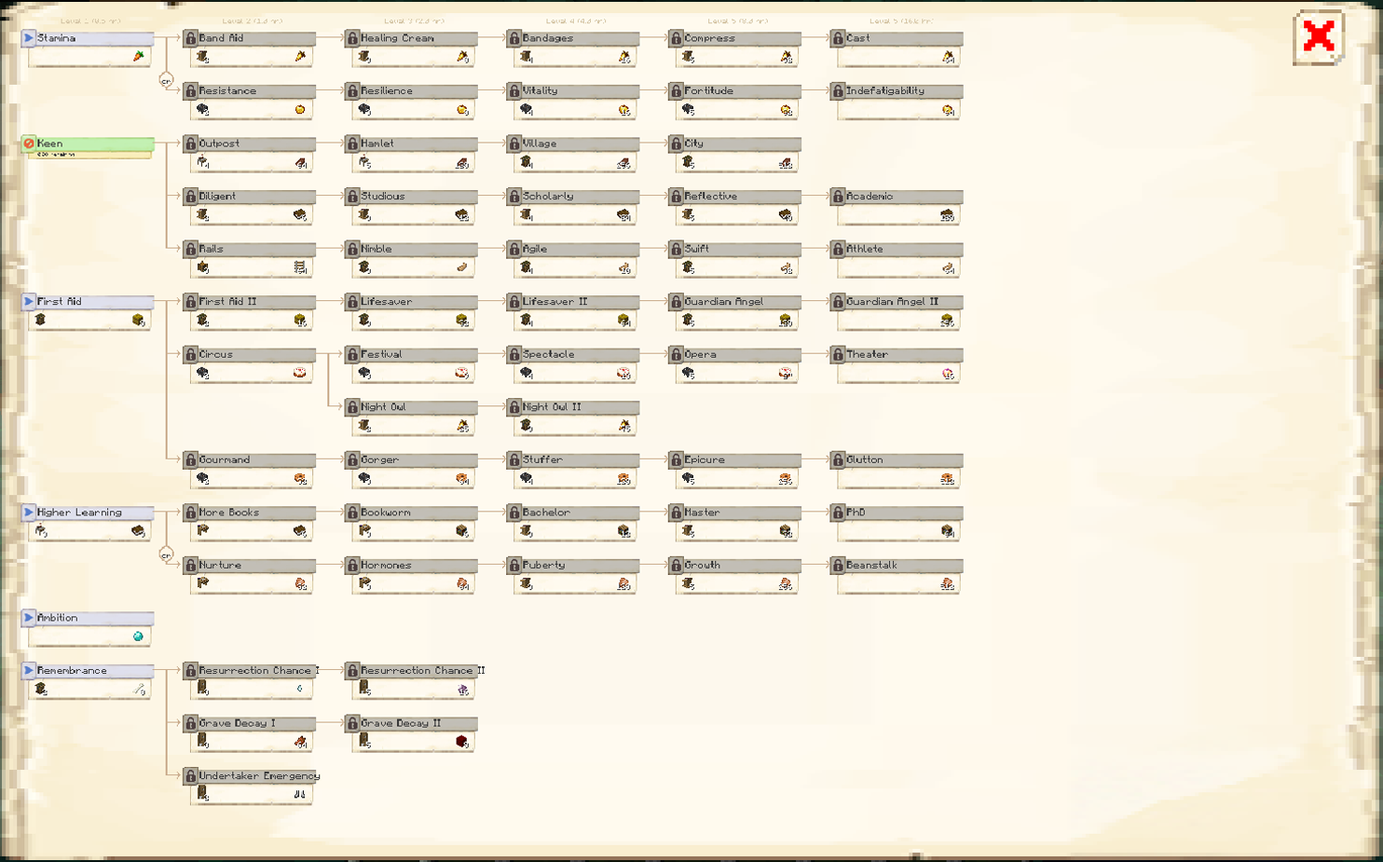
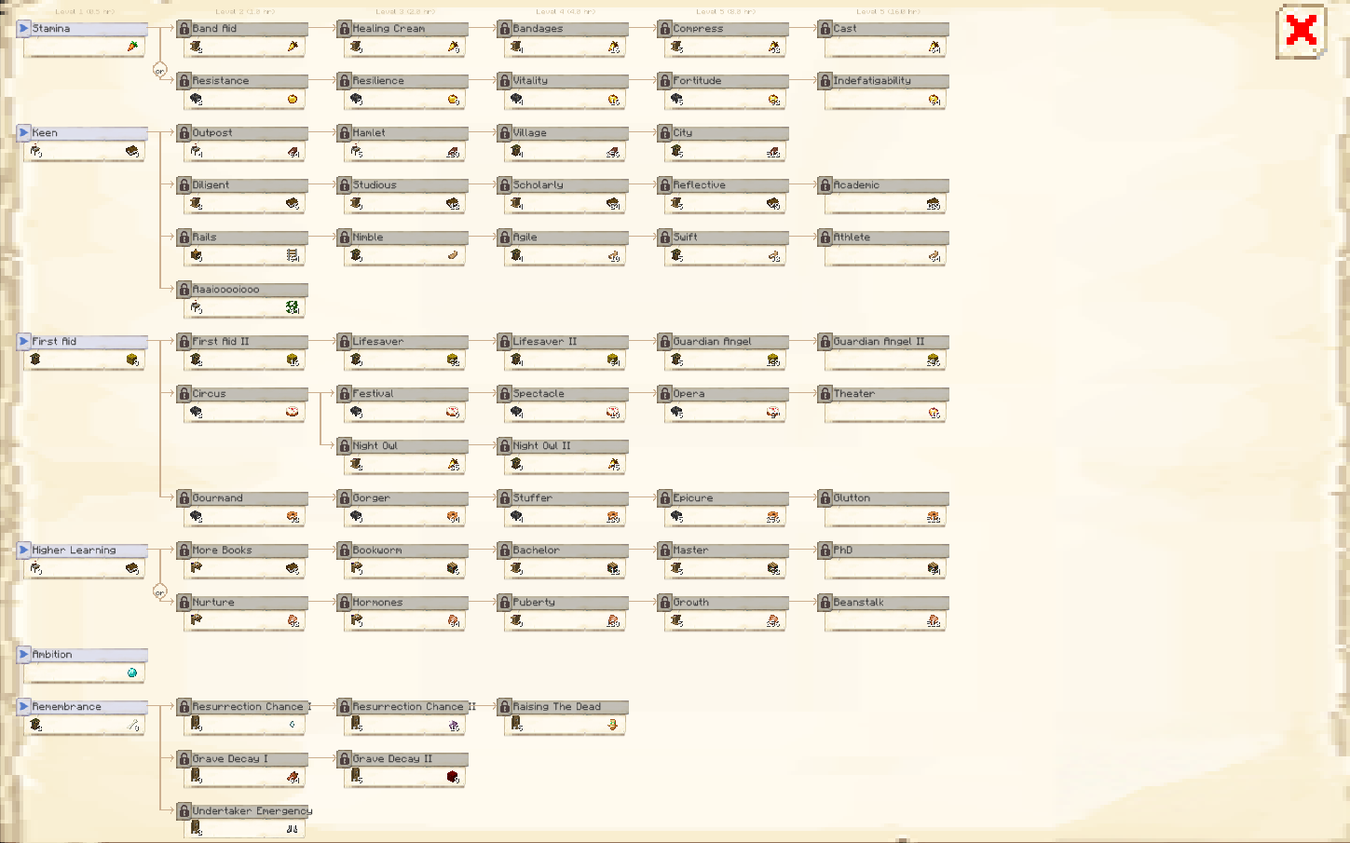
Research update (#817)
* Research update

* Link apiary

* Update dodge

* Fixed Heavy Machinery

Changed region(s): [[0.0, 0.0, 1.0, 1.0]]

diff --git a/pages/src/source/systems/research.md b/pages/src/source/systems/research.md
@@ -35,10 +35,111 @@ You can only have one column 6 research in each of the Combat, Civilian, and Tec
 **Note:** Researches below are *not* cumulative unless stated otherwise.
 
 - Branches
-  - [Combat](#combat)
   - [Civilian](#civilian)
+  - [Combat](#combat)
   - [Technology](#technology)
   - [Unlockables](#unlockables)
+
+### Civilian
+<br>
+<img src="../../assets/images/gui/university/civilian.png" class="img-fluid mx-auto" alt="University Civilian GUI Page">
+<br>
+
+#### First Column
+
+| Name | Requirements | Effects |
+| ---- | ------------ | ------- |
+| Stamina | 1 carrot | Unlocks the [Hospital](../../source/buildings/hospital) |
+| Keen | [House](../../source/buildings/house) at least level 3; 3 books | Unlocks the [Library](../../source/buildings/library) |
+| First Aid | [Town Hall](../../source/buildings/townhall) at least level 1; 8 hay bales | Increases colonists' health by 1 heart |
+| Higher Learning | House at least level 3; 3 books | Unlocks the [School](../../source/buildings/school) |
+| Ambition | 1 Diamond | Unlocks the [Mystical Site](../../source/buildings/mysticalsite) |
+| Remembrance | [Town Hall](../../source/buildings/townhall) at least level 2; 8 bones | Unlocks the [Graveyard](../../source/buildings/graveyard) |
+
+#### Second Column
+
+| Name | Prerequisites | Requirements | Effects |
+| ---- | ------------- | ------------ | ------- |
+| Band Aid | Stamina | Library at least level 2; 1 golden carrot | Every tick that a colonist is healing, they heal by 10% more |
+| Resistance | Stamina | [Restaurant](../../source/buildings/restaurant) at least level 2; 1 golden apple | Colonists can heal with only 95% saturation |
+| Outpost | Keen | House at least level 4; 64 steak | Lets the colony have up to 50 colonists |
+| Diligent | Keen | Library at least level 2; 6 books | Increases the rate colonists level up by 5% |
+| Rails | Keen | [Courier's Hut](../../source/buildings/courier) at least level 3; 64 rails | Lets colonists use rails to get around. You don't need to provide them with minecarts, as they automagically create their own for each trip |
+| Aaaioooiooo | Keen | House at least level 3; 64 vines | Citizens can climb vines |
+| First Aid II | First Aid | Town Hall at least level 2; 16 hay bales | Increases colonists' health by 2 hearts |
+| Circus | First Aid | Restaurant at least level 2; 1 cake | Increases colonists' happiness by 5% |
+| Gourmand | First Aid | Restaurant at least level 2; 32 cookies | Food is 10% more effective at restoring colonists' saturation |
+| More Books | Higher Learning | School at least level 1; 6 books | Increases the effectiveness of [Teachers](../../source/workers/teacher) by 5% |
+| Nurture | Higher Learning | School at least level 1; 32 cooked chicken | Decreases the time it takes children to grow up by 5% |
+| Resurrection Chance I | Remembrance | Graveyard at least level 3; 1 ghast tear | Increases [Undertakers'](../../source/workers/undertaker) chances of resurrecting citizens by 1% |
+| Grave Decay I | Remembrance | Graveyard at least level 3; 64 rotten flesh | Graves take 2 more minutes before decaying |
+| Undertaker Emergency | Remembrance | Graveyard at least level 2; 1 set of iron boots | Undertakers run toward graves instead of walking |
+
+#### Third Column
+
+| Name | Prerequisites | Requirements | Effects |
+| ---- | ------------- | ------------ | ------- |
+| Healing Cream | Band Aid | Library at least level 3; 8 golden carrots | Every tick that a colonist is healing, they heal by 25% more |
+| Resilience | Resistance | Restaurant at least level 3; 8 golden apples | Colonists can heal with only 90% saturation |
+| Hamlet | Outpost | House at least level 5; 128 steak | Lets the colony have up to 75 colonists |
+| Studious | Diligent | Library at least level 3; 12 books | Increases the rate colonists level up by 10% |
+| Nimble | Rails | Town Hall at least level 3; 1 rabbit foot | Increases colonists' speed by 5% |
+| Lifesaver | First Aid II | Town Hall at least level 3; 32 hay bales | Increases colonists' health by 3 hearts |
+| Festival | Circus | Restaurant at least level 3; 9 cakes | Increases colonists' happiness by 10% |
+| Nightowl | Circus | Library at least level 2; 25 golden carrots | Colonists' bedtime is pushed back by 1 in-game hour |
+| Gorger | Gourmand | Restaurant at least level 3; 64 cookies | Food is 25% more effective at restoring colonists' saturation |
+| Bookworm | More Books | School at least level 3; 6 bookshelves | Increases the effectiveness of Teachers by 10% |
+| Hormones | Nurture | School at least level 3; 64 cooked chicken | Decreases the time it takes children to grow up by 10% |
+| Resurrection Chance II | Resurrection Chance I | Graveyard level 5; 16 chorus fruit | Increases Undertakers' chances of resurrecting citizens by 2% |
+| Grave Decay II | Grave Decay I | Graveyard level 5; 8 nether wart blocks | Graves take 3 more minutes before decaying |
+
+#### Fourth Column
+
+| Name | Prerequisites | Requirements | Effects |
+| ---- | ------------- | ------------ | ------- |
+| Bandages | Healing Cream | Library at least level 4; 16 golden carrots | Every tick that a colonist is healing, they heal by 50% more |
+| Vitality | Resilience | Restaurant at least level 4; 16 golden apples | Colonists can heal with only 85% saturation |
+| Village | Hamlet | Town Hall at least level 4; 256 steak | Lets the colony have up to 175 colonists |
+| Scholarly | Studious | Library at least level 4; 24 books | Increases the rate colonists level up by 25% |
+| Agile | Nimble | Town Hall at least level 4; 10 rabbit feet | Increases colonists' speed by 10% |
+| Lifesaver II | Lifesaver | Town Hall at least level 4; 64 hay bales | Increases colonists' health by 4 hearts |
+| Spectacle | Festival | Restaurant at least level 4; 18 cakes | Increases colonists' happiness by 15% |
+| Nightowl II | Festival | Town Hall at least level 3; 75 golden carrots | Colonists' bedtime is pushed back by 2 in-game hours (cumulative with Nightowl) |
+| Stuffer | Gorger | Restaurant at least level 4; 128 cookies | Food is 50% more effective at restoring colonists' saturation |
+| Bachelor | Bookworm | Library at least level 3; 12 bookshelves | Increases the effectiveness of Teachers by 25% |
+| Puberty | Hormones | Library at least level 3; 128 cooked chicken | Decreases the time it takes children to grow up by 25% |
+| Raising The Dead | Resurrection Chance II | Graveyard level 5; 1 Totem of Undying | Undertaker can use Totems of Undying to increase chance of resurrection |
+
+#### Fifth Column
+
+| Name | Prerequisites | Requirements | Effects |
+| ---- | ------------- | ------------ | ------- |
+| Compress | Bandages | Library level 5; 32 golden carrots | Every tick that a colonist is healing, they heal by 100% more |
+| Fortitude | Vitality | Restaurant level 5; 32 golden apples | Colonists can heal with only 80% saturation |
+| City | Village | Town Hall level 5; 512 steak | Lets you have over 175 colonists, up to the max in the [config file](../../source/misc/configfile) |
+| Reflective | Scholarly | Library level 5; 48 books | Increases the rate colonists level up by 50% |
+| Swift | Agile | Town Hall level 5; 32 rabbit feet | Increases colonists' speed by 15% |
+| Guardian Angel | Lifesaver II | Town Hall level 5; 128 hay bales | Increases colonists' health by 5 hearts |
+| Opera | Spectacle | Restaurant level 5; 27 cakes | Increases colonists' happiness by 20% |
+| Epicure | Stuffer | Restaurant level 5; 256 cookies | Food is 100% more effective at restoring colonists' saturation |
+| Master | Bachelor | Library level 5; 32 bookshelves | Increases the effectiveness of Teachers by 50% |
+| Growth | Puberty | Library level 5; 256 cooked chicken | Decreases the time it takes children to grow up by 50% |
+
+#### Sixth Column 
+
+You can only have one sixth column research unlocked at a time!
+
+| Name | Prerequisites | Requirements | Effects |
+| ---- | ------------- | ------------ | ------- |
+| Cast | Compress | 64 golden carrots | Every tick that a colonist is healing, they heal by 200% more |
+| Indefatigability | Fortitude | 64 golden apples | Colonists can heal with only 50% saturation |
+| Academic | Reflective | 128 books | Increases the rate colonists level up by 100% |
+| Athlete | Swift | 64 rabbit feet | Increases colonists' speed by 25% |
+| Guardian Angel II | Guardian Angel | 256 hay bales | Increases colonists' health by 10 hearts |
+| Theater | Opera | 16 enchanted golden apples | Increases colonists' happiness by 50% |
+| Glutton | Epicure | 512 cookies | Food is 200% more effective at restoring colonists' saturation |
+| PhD | Master | 64 bookshelves | Increases the effectiveness of Teachers by 100% |
+| Beanstalk | Growth | 512 cooked chicken | Decreases the time it takes children to grow up by 100% |
 
 ### Combat
 <br>
@@ -64,7 +165,7 @@ You can only have one column 6 research in each of the Combat, Civilian, and Tec
 | Improved Swords | Tactic Training | Barracks at least level 3; 6 blocks of iron | Unlocks the [Combat Academy](../../source/buildings/combatacademy) |
 | Improved Bows | Tactic Training | Barracks at least level 3; 6 blocks of iron | Unlocks the [Archery](../../source/buildings/archery) |
 | Parry | Avoidance | [Smeltery](../../source/buildings/smeltery) at least level 1; 16 iron ingots | Increases Knights' armor by 5% |
-| Dodge | Avoidance | Smeltery at least level 1; 16 iron ingots | Increases Archers' armor by 5% |
+| Dodge | Avoidance | Smeltery at least level 1; 16 leather | Increases Archers' armor by 5% |
 | Boiled Leather | Improved Leather | Town Hall at least level 2; 64 leather | Increases Guards' armor's durability by 20% |
 | Regeneration | Improved Leather | Guard Tower at least level 2; 1 emerald | Lets Guards run away when they have low health (this can be turned off on the 2nd page of their tower's GUI) |
 | Consume Arrows | Taunt | Guard Tower at least level 2; 64 arrows | Archers will request arrows for their bows, and using them will give the Archers a damage boost of 1 heart. If they run out of arrows, they can still shoot, but without the damage boost |
@@ -83,6 +184,7 @@ You can only have one column 6 research in each of the Combat, Civilian, and Tec
 | Feint | Regeneration | Guard Tower at least level 4; 8 emeralds | When Guards are fleeing, the damage they take is reduced by 20% |
 | Avoid | Regeneration | Guard Tower at least level 4; 8 emeralds | Increases the fleeing speed of Guards by 10% |
 | Arrow Piercing | Consume Arrows | Archery at least level 1; 64 arrows, 64 redstone dust | Archers' arrows can pierce through multiple enemies and cannot hit Knights or other Archers |
+| Panoramix | Consume Arrows | Barracks at least level 3; 64 mistletow | Druids request water bottles and mistletoe, which increases the strength and duration of their potions |
 
 #### Fourth Column
 
@@ -130,105 +232,6 @@ You can only have one sixth column research unlocked at a time!
 | Full Retreat | Retreat | 64 emeralds | When Guards are fleeing, the damage they take is reduced by 100% |
 | Hotfoot | Flee | 64 emeralds | Increases the fleeing speed of Guards by 50% |
 
-### Civilian
-<br>
-<img src="../../assets/images/gui/university/civilian.png" class="img-fluid mx-auto" alt="University Civilian GUI Page">
-<br>
-
-#### First Column
-
-| Name | Requirements | Effects |
-| ---- | ------------ | ------- |
-| Stamina | 1 carrot | Unlocks the [Hospital](../../source/buildings/hospital) |
-| Keen | [House](../../source/buildings/house) at least level 3; 3 books | Unlocks the [Library](../../source/buildings/library) |
-| First Aid | [Town Hall](../../source/buildings/townhall) at least level 1; 8 hay bales | Increases colonists' health by 1 heart |
-| Higher Learning | House at least level 3; 3 books | Unlocks the [School](../../source/buildings/school) |
-| Ambition | 1 Diamond | Unlocks the [Mystical Site](../../source/buildings/mysticalsite) |
-| Remembrance | [Town Hall](../../source/buildings/townhall) at least level 2; 8 bones | Unlocks the [Graveyard](../../source/buildings/graveyard) |
-
-#### Second Column
-
-| Name | Prerequisites | Requirements | Effects |
-| ---- | ------------- | ------------ | ------- |
-| Band Aid | Stamina | Library at least level 2; 1 golden carrot | Every tick that a colonist is healing, they heal by 10% more |
-| Resistance | Stamina | [Restaurant](../../source/buildings/restaurant) at least level 2; 1 golden apple | Colonists can heal with only 95% saturation |
-| Outpost | Keen | House at least level 4; 64 steak | Lets the colony have up to 50 colonists |
-| Diligent | Keen | Library at least level 2; 6 books | Increases the rate colonists level up by 5% |
-| Rails | Keen | [Courier's Hut](../../source/buildings/courier) at least level 3; 64 rails | Lets colonists use rails to get around. You don't need to provide them with minecarts, as they automagically create their own for each trip |
-| First Aid II | First Aid | Town Hall at least level 2; 16 hay bales | Increases colonists' health by 2 hearts |
-| Circus | First Aid | Restaurant at least level 2; 1 cake | Increases colonists' happiness by 5% |
-| Gourmand | First Aid | Restaurant at least level 2; 32 cookies | Food is 10% more effective at restoring colonists' saturation |
-| More Books | Higher Learning | School at least level 1; 6 books | Increases the effectiveness of [Teachers](../../source/workers/teacher) by 5% |
-| Nurture | Higher Learning | School at least level 1; 32 cooked chicken | Decreases the time it takes children to grow up by 5% |
-| Resurrection Chance I | Remembrance | Graveyard at least level 3; 1 ghast tear | Increases [Undertakers'](../../source/workers/undertaker) chances of resurrecting citizens by 1% |
-| Grave Decay I | Remembrance | Graveyard at least level 3; 64 rotten flesh | Graves take 2 more minutes before decaying |
-| Undertaker Emergency | Remembrance | Graveyard at least level 2; 1 set of iron boots | Undertakers run toward graves instead of walking |
-
-#### Third Column
-
-| Name | Prerequisites | Requirements | Effects |
-| ---- | ------------- | ------------ | ------- |
-| Healing Cream | Band Aid | Library at least level 3; 8 golden carrots | Every tick that a colonist is healing, they heal by 25% more |
-| Resilience | Resistance | Restaurant at least level 3; 8 golden apples | Colonists can heal with only 90% saturation |
-| Hamlet | Outpost | House at least level 5; 128 steak | Lets the colony have up to 75 colonists |
-| Studious | Diligent | Library at least level 3; 12 books | Increases the rate colonists level up by 10% |
-| Nimble | Rails | Town Hall at least level 3; 1 rabbit foot | Increases colonists' speed by 5% |
-| Lifesaver | First Aid II | Town Hall at least level 3; 32 hay bales | Increases colonists' health by 3 hearts |
-| Festival | Circus | Restaurant at least level 3; 9 cakes | Increases colonists' happiness by 10% |
-| Nightowl | Circus | Library at least level 2; 25 golden carrots | Colonists' bedtime is pushed back by 1 in-game hour |
-| Gorger | Gourmand | Restaurant at least level 3; 64 cookies | Food is 25% more effective at restoring colonists' saturation |
-| Bookworm | More Books | School at least level 3; 6 bookshelves | Increases the effectiveness of Teachers by 10% |
-| Hormones | Nurture | School at least level 3; 64 cooked chicken | Decreases the time it takes children to grow up by 10% |
-| Resurrection Chance II | Resurrection Chance I | Graveyard level 5; 16 chorus fruit | Increases Undertakers' chances of resurrecting citizens by 2% |
-| Grave Decay II | Grave Decay I | Graveyard level 5; 8 nether wart blocks | Graves take 3 more minutes before decaying |
-
-#### Fourth Column
-
-| Name | Prerequisites | Requirements | Effects |
-| ---- | ------------- | ------------ | ------- |
-| Bandages | Healing Cream | Library at least level 4; 16 golden carrots | Every tick that a colonist is healing, they heal by 50% more |
-| Vitality | Resilience | Restaurant at least level 4; 16 golden apples | Colonists can heal with only 85% saturation |
-| Village | Hamlet | Town Hall at least level 4; 256 steak | Lets the colony have up to 175 colonists |
-| Scholarly | Studious | Library at least level 4; 24 books | Increases the rate colonists level up by 25% |
-| Agile | Nimble | Town Hall at least level 4; 10 rabbit feet | Increases colonists' speed by 10% |
-| Lifesaver II | Lifesaver | Town Hall at least level 4; 64 hay bales | Increases colonists' health by 4 hearts |
-| Spectacle | Festival | Restaurant at least level 4; 18 cakes | Increases colonists' happiness by 15% |
-| Nightowl II | Festival | Town Hall at least level 3; 75 golden carrots | Colonists' bedtime is pushed back by 2 in-game hours (cumulative with Nightowl) |
-| Stuffer | Gorger | Restaurant at least level 4; 128 cookies | Food is 50% more effective at restoring colonists' saturation |
-| Bachelor | Bookworm | Library at least level 3; 12 bookshelves | Increases the effectiveness of Teachers by 25% |
-| Puberty | Hormones | Library at least level 3; 128 cooked chicken | Decreases the time it takes children to grow up by 25% |
-
-#### Fifth Column
-
-| Name | Prerequisites | Requirements | Effects |
-| ---- | ------------- | ------------ | ------- |
-| Compress | Bandages | Library level 5; 32 golden carrots | Every tick that a colonist is healing, they heal by 100% more |
-| Fortitude | Vitality | Restaurant level 5; 32 golden apples | Colonists can heal with only 80% saturation |
-| City | Village | Town Hall level 5; 512 steak | Lets you have over 175 colonists, up to the max in the [config file](../../source/misc/configfile) |
-| Reflective | Scholarly | Library level 5; 48 books | Increases the rate colonists level up by 50% |
-| Swift | Agile | Town Hall level 5; 32 rabbit feet | Increases colonists' speed by 15% |
-| Guardian Angel | Lifesaver II | Town Hall level 5; 128 hay bales | Increases colonists' health by 5 hearts |
-| Opera | Spectacle | Restaurant level 5; 27 cakes | Increases colonists' happiness by 20% |
-| Epicure | Stuffer | Restaurant level 5; 256 cookies | Food is 100% more effective at restoring colonists' saturation |
-| Master | Bachelor | Library level 5; 32 bookshelves | Increases the effectiveness of Teachers by 50% |
-| Growth | Puberty | Library level 5; 256 cooked chicken | Decreases the time it takes children to grow up by 50% |
-
-#### Sixth Column 
-
-You can only have one sixth column research unlocked at a time!
-
-| Name | Prerequisites | Requirements | Effects |
-| ---- | ------------- | ------------ | ------- |
-| Cast | Compress | 64 golden carrots | Every tick that a colonist is healing, they heal by 200% more |
-| Indefatigability | Fortitude | 64 golden apples | Colonists can heal with only 50% saturation |
-| Academic | Reflective | 128 books | Increases the rate colonists level up by 100% |
-| Athlete | Swift | 64 rabbit feet | Increases colonists' speed by 25% |
-| Guardian Angel II | Guardian Angel | 256 hay bales | Increases colonists' health by 10 hearts |
-| Theater | Opera | 16 enchanted golden apples | Increases colonists' happiness by 50% |
-| Glutton | Epicure | 512 cookies | Food is 200% more effective at restoring colonists' saturation |
-| PhD | Master | 64 bookshelves | Increases the effectiveness of Teachers by 100% |
-| Beanstalk | Growth | 512 cooked chicken | Decreases the time it takes children to grow up by 100% |
-
 ### Technology
 <br>
 <img src="../../assets/images/gui/university/technology.png" class="img-fluid mx-auto" alt="University Technology GUI Page">
@@ -239,11 +242,12 @@ You can only have one sixth column research unlocked at a time!
 | Name | Requirements | Effects |
 | ---- | ------------ | ------- |
 | Biodegradable | [Farm](../../source/buildings/farm&field) at least level 3; 64 bone meal | Unlocks the [Composter's Hut](../../source/buildings/composter) |
-| Hitting Iron! | Mine at least level 3; 1 anvil | Unlocks the [Blacksmith's Hut](../../source/buildings/blacksmith) |
+| Soft Shoes | 16 white wool; 16 feathers | Farmer will not trample crops |
 | More Scrolls |  [Enchanter's Tower](../../source/buildings/enchantertower) at least level 3; 64 paper, 1 [ancient tome](../../source/items/ancient_tome), 64 lapis lazuli | Lets the [Enchanter](../../source/workers/enchanter) craft the [Spatial Guard Reinforcements Scroll](../../source/items/scrolls) and the [Worker-Where-Are-You Scroll](../../source/items/scrolls) |
 | Stone Cake | [Mine](../../source/buildings/mine) at least level 3; 64 chiseled stone bricks | Unlocks the [Stonemason's Hut](../../source/buildings/stonemason) |
 | Woodwork | [Forester's Hut](../../source/buildings/forester) at least level 3; 64 oak planks | Unlocks the [Sawmill](../../source/buildings/sawmill) |
 | Hot! | Mine at least level 2; 4 lava buckets | Unlocks the [Smeltery](../../source/buildings/smeltery) |
+| Hitting Iron! | Mine at least level 3; 1 anvil | Unlocks the [Blacksmith's Hut](../../source/buildings/blacksmith) |
 
 #### Second Column
 
@@ -253,10 +257,7 @@ You can only have one sixth column research unlocked at a time!
 | Flower Power | Biodegradable | Composter's Hut at least level 3; 64 compost | Unlocks the [Flower Shop](../../source/buildings/flowershop) |
 | Let It Grow | Biodegradable | Farm at least level 3; 16 compost | Unlocks the [Plantation](../../source/buildings/plantation) |
 | Bonemeal | Biodegradable | Mine at least level 3; 64 wheat seeds | Increases [Farmers'](../../source/workers/farmer) output by 10% |
-| Strong | Hitting Iron | Blacksmith's Hut at least level 1; 8 diamonds | Increases colonists' tools' durability by 5% |
-| Veinminer | Hitting Iron | Mine at least level 1; 32 iron ore | [Miner](../../source/workers/miner) produces 10% more bonus ores |
-| Ability | Hitting Iron | Mine at least level 1; 64 iron ingots | Increases colonists' block placing speed by 10% |
-| What ya Need? | Hitting Iron | Blacksmith's Hut at least level 3; 64 redstone dust | Unlocks the [Mechanic's Hut](../../source/buildings/mechanic) |
+| Open The Nether | More Scrolls | 3 gilded blackstone | Unlocks the [Nether Mine](../../source/buildings/nethermine) |
 | Rocking Roll | Stone Cake | Stonemason's Hut at least level 1; 64 stone | Unlocks the [Crusher's Hut](../../source/buildings/crusher) |
 | Stringwork | Woodwork | Sawmill at least level 1; 16 string | Unlocks the [Fletcher's Hut](../../source/buildings/fletcher) |
 | Sieving | Woodwork | [Fisher's Hut](../../source/buildings/fisher) at least level 3; 64 string | Unlocks the [Sifter's Hut](../../source/buildings/sifter) |
@@ -264,6 +265,10 @@ You can only have one sixth column research unlocked at a time!
 | Is This Redstone? | Hot! | 128 redstone dust | Increases colonists' block breaking speed by 10% |
 | The Flintstones | Hot! | Smeltery at least level 3; 64 stone bricks | Unlocks the [Stone Smeltery](../../source/buildings/stonesmeltery) |
 | Those Lungs! | Hot! | Smeltery at least level 3; 64 glass | Unlocks the [Glassblower's Hut](../../source/buildings/glassblower) |
+| Strong | Hitting Iron | Blacksmith's Hut at least level 1; 8 diamonds | Increases colonists' tools' durability by 5% |
+| Veinminer | Hitting Iron | Mine at least level 1; 32 iron ore | [Miner](../../source/workers/miner) produces 10% more bonus ores |
+| Ability | Hitting Iron | Mine at least level 1; 64 iron ingots | Increases colonists' block placing speed by 10% |
+| What ya Need? | Hitting Iron | Blacksmith's Hut at least level 3; 64 redstone dust | Unlocks the [Mechanic's Hut](../../source/buildings/mechanic) |
 
 #### Third Column
 
@@ -273,45 +278,48 @@ You can only have one sixth column research unlocked at a time!
 | Rainbow Heaven | Flower Power | Flower Shop at least level 3; 64 poppies | Unlocks the [Dyer's Hut](../../source/buildings/dyer) |
 | Double Trouble | Let it Grow | Plantation at least level 3; 64 bamboo, 64 sugar cane, 64 cacti | Lets the [Planter](../../source/workers/planter) plant 2 out of 3 crops at the same time |
 | Dung | Bonemeal | Mine at least level 4; 128 wheat seeds | Increases Farmers' output by 25% |
-| Hardened | Strong | Blacksmith's Hut at least level 2; 16 diamonds | Increases colonists' tools' durability by 10% |
-| Good Veins | Veinminer | Mine at least level 2; 64 iron ore | Miner produces 25% more bonus ores |
-| Skills | Ability | Mine at least level 2; 128 iron ingots | Increases colonists' block placing speed by 25% |
-| Enhanced Gates I | What ya Need? | 64 wooden [gates](../../source/items/gates), 2 [ancient tomes](../../source/items/ancient_tome), 5 blocks of iron | This has a bit of a complex formula, but suffice it to say it makes gates more durable |
 | Gilded Hammer | Rocking Roll | Crusher's Hut at least level 3; 64 gravel, 64 sand, 64 clay blocks | Lets [Crushers](../../source/workers/crusher) crush based on a 1-1 ratio instead of 2-1 |
 | Pave the Road | Rocking Roll | Crusher's Hut at least level 1; 32 white concrete | Unlocks the [Concrete Mixer's Hut](../../source/buildings/concretemixer) |
 | Hot Boots | Stringwork | Fletcher's Hut at least level 1; 32 leather, 16 iron ingots | Gives the Miner fire resistance for those annoying lava lakes |
 | Space | Sieving | Mine at least level 3; 16 [racks](../../source/items/rack) | Increases the number of items you can set as a minimum stock in the [Warehouse](../../source/buildings/warehouse), [Restaurant](../../source/buildings/restaurant), and [Bakery](../../source/buildings/bakery) GUIs by 50% |
 | Cheat Sheet | Memory Aid | Sawmill at least level 3; 64 paper | Increases the max amount of recipes stored in each hut by 50% |
+| Warehouse Master | Memory Aid | Sawmill at least level 3; 3 racks | Unlocks Recipe Mode setting for crafting huts |
+| Builder Modes | Memory Aid | Builder Hut at least level 3; 1 diamond axe | Unlocks Build Method setting for [Builder's Hut](../../source/buildings/builder) |
 | Redstone Powered | Is this Redstone? | 256 redstone dust | Increases colonists' block breaking speed by 25% |
 | Know the End | The Flintstones | Bakery at least level 3; 64 chorus fruit | Lets the [Baker](../../source/workers/baker) craft chorus bread and lets the [Stonemason](../../source/workers/stonemason) craft end stone (for more information, go to the Baker and Stonemason pages) |
+| Hardened | Strong | Blacksmith's Hut at least level 2; 16 diamonds | Increases colonists' tools' durability by 10% |
+| Good Veins | Veinminer | Mine at least level 2; 64 iron ore | Miner produces 25% more bonus ores |
+| Skills | Ability | Mine at least level 2; 128 iron ingots | Increases colonists' block placing speed by 25% |
+| Enhanced Gates I | What ya Need? | 64 wooden [gates](../../source/items/gates), 2 [ancient tomes](../../source/items/ancient_tome), 5 blocks of iron | This has a bit of a complex formula, but suffice it to say it makes gates more durable |
 
 
 #### Fourth Column
 
 | Name | Prerequisites | Requirements | Effects |
 | ---- | ------------- | ------------ | ------- |
+| Honey Pot | Rainbow Heaven | [Apiary](../../source/buildings/apiary) at least level 3; 16 beehive | Beekeepers can harvest honeycomb and bottles at the same time |
 | Compost | Dung | Mine level 5; 256 wheat seeds | Increases Farmers' output by 50% |
+| Capacity | Space | Mine at least level 4; 32 racks | Increases the number of items you can set as a minimum stock in the Warehouse, Restaurant, and Bakery GUIs by 100% |
+| Recipe Book | Cheat Sheet | Sawmill at least level 3; 128 paper | Increases the max amount of recipes stored in each hut by 100% |
+| Deep Pockets | Cheat Sheet | Library at least level 4; 64 emeralds | Adds 9 slots to colonists' inventories |
+| Heavy Machinery | Redstone Powered | 512 redstone dust | Increases colonists' block breaking speed by 50% |
 | Reinforced | Hardened | Blacksmith's Hut at least level 3; 32 diamonds | Increases colonists' tools' durability by 25% |
 | Rich Veins | Good Veins | Blacksmith's Hut at least level 4; 32 gold ore | Miner produces 50% more bonus ores |
 | Tools | Skills | Blacksmith's Hut at least level 4; 256 iron ingots | Increases colonists' block placing speed by 50% |
 | Enhanced Gates II | Enhanced Gates I | 64 iron [gates](../../source/items/gates), 2 ancient tomes, 32 obsidian | Even more durable gates! |
-| Capacity | Space | Mine at least level 4; 32 racks | Increases the number of items you can set as a minimum stock in the Warehouse, Restaurant, and Bakery GUIs by 100% |
-| Recipe Book | Cheat Sheet | Sawmill at least level 3; 128 paper | Increases the max amount of recipes stored in each hut by 100% |
-| Deep Pockets | Cheat Sheet | Library at least level 4; 64 emeralds | Adds 9 slots to colonists' inventories |
-| Heavy Machinery | Redstone Powered | 256 redstone dust | Increases colonists' block breaking speed by 50% |
 
 #### Fifth Column
 
 | Name | Prerequisites | Requirements | Effects |
 | ---- | ------------- | ------------ | ------- |
 | Fertilizer | Compost | Smeltery at least level 3; 512 wheat seeds | Increases Farmers' output by 75% |
-| Steel Bracing | Reinforced | Blacksmith's Hut level 5; 64 diamonds | Increases colonists' tools' durability by 50% |
-| Amazing Veins | Rich Veins | Blacksmith's Hut level 5; 64 gold ore | Miner produces 100% more bonus ores |
-| Seems Automatic | Tools | Blacksmith's Hut level 5; 512 iron ingots | Increases colonists' block placing speed by 100% |
 | Full Stock | Capacity | Mine level 5; 64 racks | Increases the number of items you can set as a minimum stock in the Warehouse, Restaurant, and Bakery GUIs by 200% |
 | RTM (Read the Manual) | Recipe book | Sawmill at least level 4; 256 paper | Increases the max amount of recipes stored in each hut by 200% |
 | Loaded | Deep Pockets | Library level 5; 128 emeralds | Adds 18 slots to colonists' inventories |
 | What Is This Speed? | Heavy Machinery | 1024 redstone dust | Increases colonists' block breaking speed by 100% |
+| Steel Bracing | Reinforced | Blacksmith's Hut level 5; 64 diamonds | Increases colonists' tools' durability by 50% |
+| Amazing Veins | Rich Veins | Blacksmith's Hut level 5; 64 gold ore | Miner produces 100% more bonus ores |
+| Seems Automatic | Tools | Blacksmith's Hut level 5; 512 iron ingots | Increases colonists' block placing speed by 100% |
 
 #### Sixth Column
 
@@ -320,12 +328,12 @@ You can only have one sixth column research unlocked at a time!
 | Name | Prerequisites | Requirements | Effects |
 | ---- | ------------- | ------------ | ------- |
 | Magic Compost | Fertilizer | 2048 wheat seeds | Increases Farmers' output by 200% |
-| Diamond Coated | Steel Bracing | 128 diamonds | Increases colonists' tools' durability by 90% |
-| Madness! | Seems Automatic | 1024 iron ingots | Increases colonists' block placing speed by 200% |
-| Motherlode | Amazing Veins | 64 diamond ore | Miner produces 200% more ores |
 | Rainman | RTM | 27 buckets of salmon | Workers work during rain and storms |
 | Heavily Loaded | Loaded | 256 emeralds | Adds 27 slots to colonists' inventories. **This research can not be undone.** |
 | Lightning | What Is This Speed? | 2048 redstone dust | Increases colonists' block breaking speed by 200% |
+| Diamond Coated | Steel Bracing | 128 diamonds | Increases colonists' tools' durability by 90% |
+| Motherlode | Amazing Veins | 64 diamond ore | Miner produces 200% more ores |
+| Madness! | Seems Automatic | 1024 iron ingots | Increases colonists' block placing speed by 200% |
 
 ### Unlockables
 <br>
